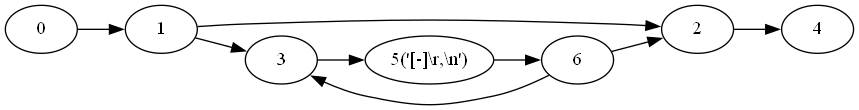
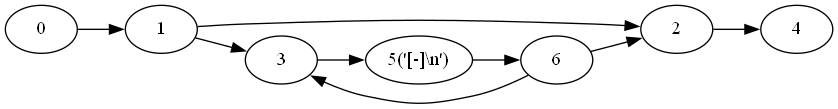
fx

diff --git a/NRegEx/RegExGraphBuilder.cs b/NRegEx/RegExGraphBuilder.cs
@@ -55,6 +55,7 @@ public static class RegExGraphBuilder
                 nodes.Add(node);
             }
         }
+#if true
         var segments = new List<List<Node>>();
         do
         {
@@ -106,9 +107,30 @@ public static class RegExGraphBuilder
         }
 
         graph.Nodes.RemoveWhere(n => !graph.Edges.Any(e => e.Head == n || e.Tail == n));
+#endif
 
-        return graph;
+
+        return graph;// FixGraph(graph);
     }
+    public static Graph FixGraph(Graph g)
+    {
+        if (g is not null)
+        {
+            foreach (var e in g.Edges)
+            {
+                if (!e.Head.Outputs.Contains(e.Tail))
+                {
+                    e.Head.Outputs.Add(e.Tail);
+                }
+                if (e.Tail.Inputs.Contains(e.Head))
+                {
+                    e.Tail.Outputs.Add(e.Head);
+                }
+            }
+        }
+        return g;
+    }
+
     public static bool HasPassThrough(Graph graph)
         => HasPassThrough(graph.Tail,graph.Head);
     public static bool HasPassThrough(Graph graph, Node[] nodes)
@@ -196,9 +218,9 @@ public static class RegExGraphBuilder
                 break;
             case TokenTypes.AnyCharExcludingNewLine:
                 {
-                    //\r\n excluded
+                    //\n excluded
                     graph.UnionWith(new Node(true,
-                        Node.ReturnChar, Node.NewLineChar) { Parent = graph });
+                        Node.NewLineChar) { Parent = graph });
                 }
                 break;
             case TokenTypes.Sequence:

diff --git a/NRegex.Test/BasicUnitTests.cs b/NRegex.Test/BasicUnitTests.cs
@@ -441,9 +441,13 @@ public class BasicUnitTests
 
         var regex2 = new Regex(lazyPattern);
         string input = "This sentence ends with the number 107325.";
-
-        var r1 = regex1.Match(input);
-        var r2 = regex2.Match(input);
-
+        try
+        {
+            var r1 = regex1.Match(input);
+            var r2 = regex2.Match(input);
+        }catch(Exception ex)
+        {
+            Debug.WriteLine(ex);
+        }
     }
 }
